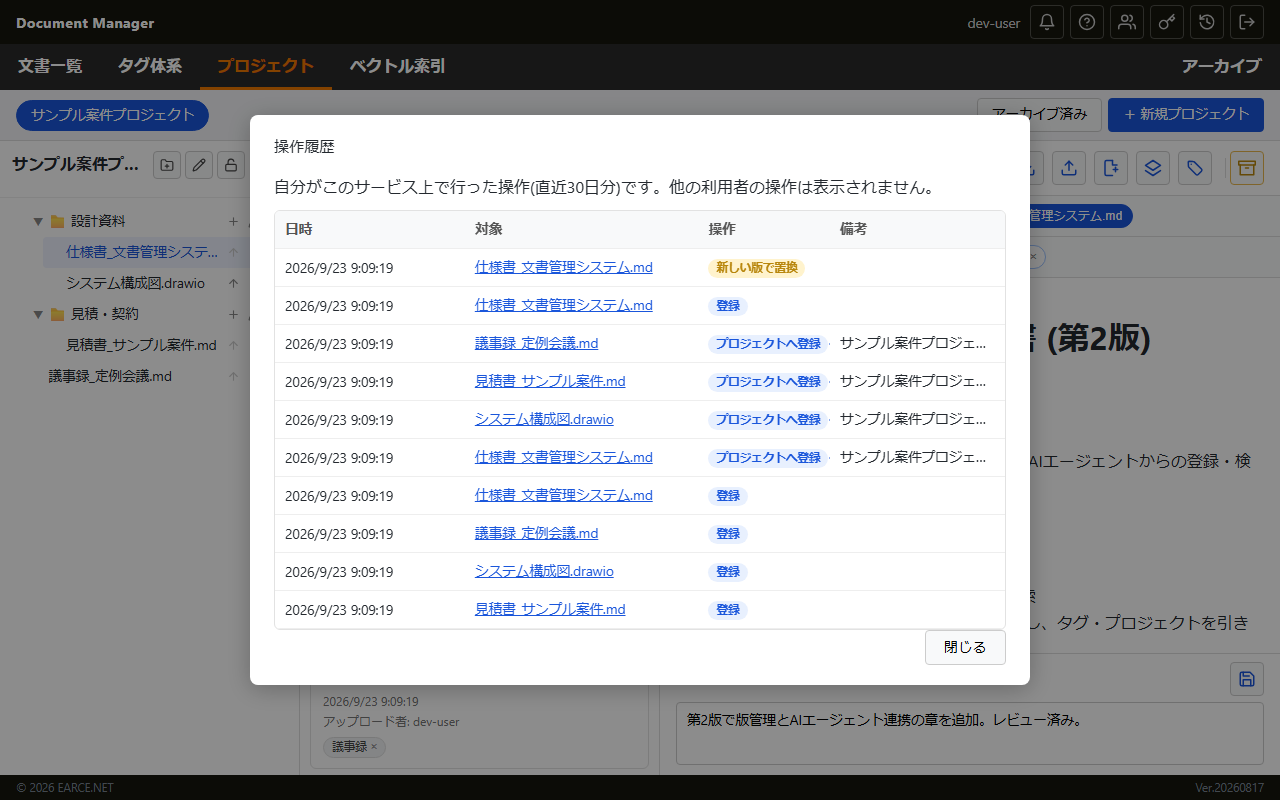
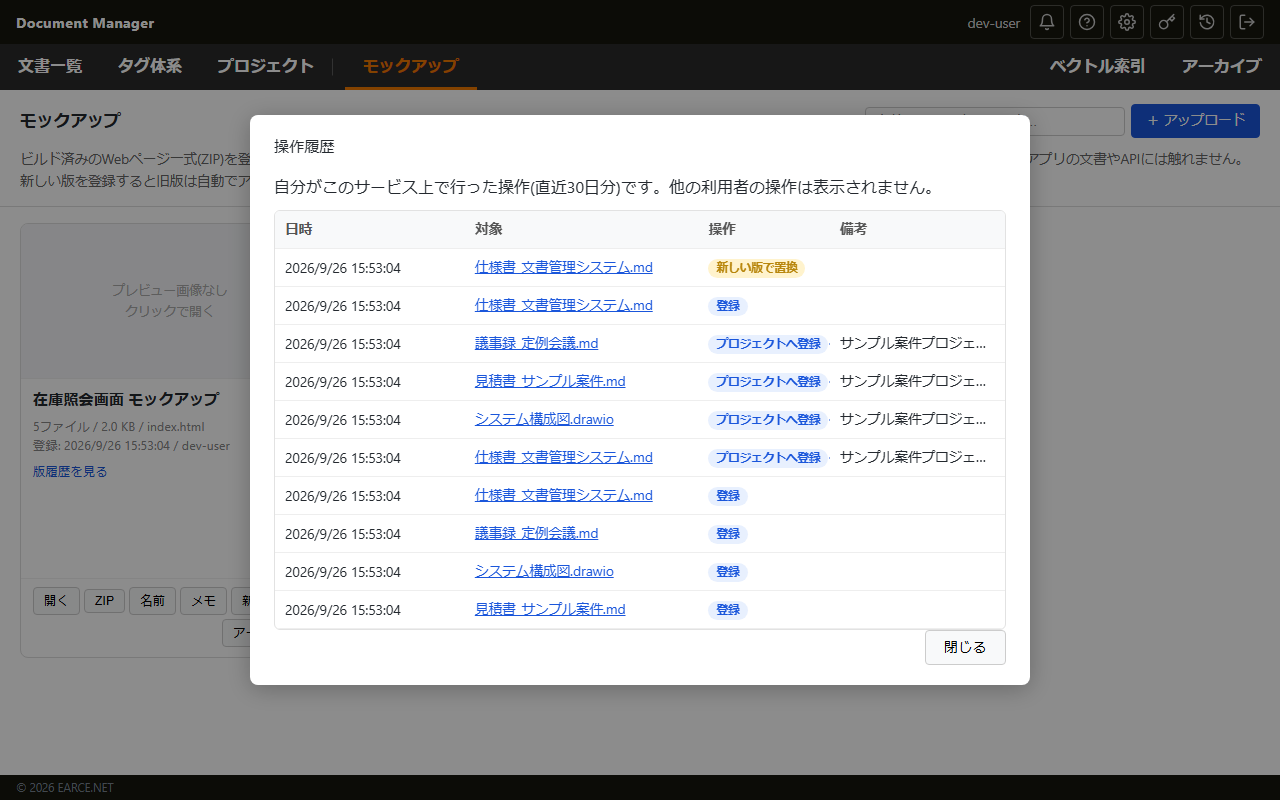
READMEとDocker Hubの説明にモックアップとお品書きを入れた
機能を足したのに入口の説明に無い状態だったので埋めた。撮影スクリプトにも
モックアップとお品書きの画面を足し、README用の絵は npm run screenshots で
作り直せる状態を保っている(サンプルの案件と受注管理のモックアップを種まきする)。

あわせて古くなっていた記述を直した。ディレクトリ構成のスキーマ版がv14のままで、
モックアップの置き場(data/mockups/)とdocs配下の2つの定義も載っていなかった。
構成図の /data の説明も「文書ファイル + SQLite」だけだったので直し、PNGを
作り直した。

diff --git a/docs/screenshots/capture.js b/docs/screenshots/capture.js
@@ -48,6 +48,59 @@ const upload = async (name, content, {previousId, preview} = {}) => {
 
 const setTags = (id, tags) => api("PUT", `api/documents/${encodeURIComponent(id)}/tags`, {tags});
 
+// モックアップは「ビルド済みのページ一式のZIP」を受け取る。撮影用にその場で組み立てる
+// (依存を増やさないよう、zlibだけでZIPの最小構成を作る)
+const zlib = require("node:zlib");
+const buildZip = (entries) => {
+	const locals = [];
+	const centrals = [];
+	let offset = 0;
+	for (const {name, data} of entries) {
+		const nameBuf = Buffer.from(name, "utf-8");
+		const body = Buffer.from(data, "utf-8");
+		const payload = zlib.deflateRawSync(body, {level: 9});
+		const local = Buffer.alloc(30);
+		local.writeUInt32LE(0x04034b50, 0);
+		local.writeUInt16LE(20, 4);
+		local.writeUInt16LE(8, 8);
+		local.writeUInt32LE(payload.length, 18);
+		local.writeUInt32LE(body.length, 22);
+		local.writeUInt16LE(nameBuf.length, 26);
+		locals.push(local, nameBuf, payload);
+		const central = Buffer.alloc(46);
+		central.writeUInt32LE(0x02014b50, 0);
+		central.writeUInt16LE(20, 4);
+		central.writeUInt16LE(20, 6);
+		central.writeUInt16LE(8, 10);
+		central.writeUInt32LE(payload.length, 20);
+		central.writeUInt32LE(body.length, 24);
+		central.writeUInt16LE(nameBuf.length, 28);
+		central.writeUInt32LE(offset, 42);
+		centrals.push(central, nameBuf);
+		offset += local.length + nameBuf.length + payload.length;
+	}
+	const localPart = Buffer.concat(locals);
+	const centralPart = Buffer.concat(centrals);
+	const end = Buffer.alloc(22);
+	end.writeUInt32LE(0x06054b50, 0);
+	end.writeUInt16LE(entries.length, 8);
+	end.writeUInt16LE(entries.length, 10);
+	end.writeUInt32LE(centralPart.length, 12);
+	end.writeUInt32LE(localPart.length, 16);
+	return Buffer.concat([localPart, centralPart, end]);
+};
+
+const uploadMockup = async (name, zip, previewSvg) => {
+	const form = new FormData();
+	form.append("mockupfile", new Blob([zip], {type: "application/zip"}), "site.zip");
+	form.append("name", name);
+	if (previewSvg) form.append("previewfile", new Blob([previewSvg], {type: "image/svg+xml"}), "preview.svg");
+	const res = await fetch(new URL("api/mockups", BASE_URL), {method: "POST", body: form});
+	const text = await res.text();
+	if (!res.ok) throw new Error(`api/mockups ${res.status}: ${text}`);
+	return JSON.parse(text);
+};
+
 const SPEC_V1 = `# 文書管理システム 仕様書
 
 ## 概要
@@ -121,6 +174,57 @@ const DRAWIO_SVG = `<svg xmlns="http://www.w3.org/2000/svg" width="640" height="
 <g stroke="#555" stroke-width="2"><line x1="170" y1="125" x2="245" y2="125"/><line x1="415" y1="115" x2="480" y2="75"/><line x1="415" y1="135" x2="480" y2="180"/></g>
 </svg>`;
 
+const MOCKUP_SITE = [
+	{name: "index.html", data: `<!DOCTYPE html><html lang="ja"><head><meta charset="utf-8">`
+		+ `<title>受注管理 モックアップ</title><link rel="stylesheet" href="./assets/style.css"></head>`
+		+ `<body><header><h1>受注管理</h1><nav><a href="./index.html">一覧</a>`
+		+ `<a href="./pages/detail.html">明細</a></nav></header>`
+		+ `<main><div id="app">読み込み中...</div></main><script src="./app.js"></scr` + `ipt></body></html>`},
+	{name: "app.js", data: `const rows = [\n`
+		+ `\t{id: "SO-1024", customer: "サンプル商事", amount: 482000, status: "手配中"},\n`
+		+ `\t{id: "SO-1025", customer: "テスト工業", amount: 128400, status: "出荷済"},\n`
+		+ `\t{id: "SO-1026", customer: "デモ物産", amount: 996000, status: "見積"}\n`
+		+ `];\n`
+		+ `document.getElementById("app").innerHTML =\n`
+		+ `\t'<table><thead><tr><th>受注番号</th><th>取引先</th><th>金額</th><th>状態</th></tr></thead><tbody>'\n`
+		+ `\t+ rows.map((r) => \`<tr><td>\${r.id}</td><td>\${r.customer}</td>`
+		+ `<td class="num">\${r.amount.toLocaleString()}</td><td><span class="badge">\${r.status}</span></td></tr>\`).join("")\n`
+		+ `\t+ '</tbody></table>';\n`},
+	{name: "assets/style.css", data: `body { font-family: sans-serif; margin: 0; color: #333; }\n`
+		+ `header { background: #2b2b2b; color: #fff; padding: 14px 24px; display: flex; gap: 24px; align-items: center; }\n`
+		+ `header h1 { font-size: 1.1em; margin: 0; }\n`
+		+ `header a { color: #ddd; margin-right: 16px; text-decoration: none; }\n`
+		+ `main { padding: 24px; }\n`
+		+ `table { border-collapse: collapse; width: 100%; max-width: 760px; }\n`
+		+ `th, td { border-bottom: 1px solid #e3e3e3; padding: 10px 12px; text-align: left; font-size: 0.9em; }\n`
+		+ `th { background: #f6f7f9; }\n`
+		+ `td.num { text-align: right; }\n`
+		+ `.badge { background: #eef3fb; color: #1a56db; border-radius: 10px; padding: 2px 10px; font-size: 0.85em; }\n`},
+	{name: "pages/detail.html", data: `<!DOCTYPE html><html lang="ja"><head><meta charset="utf-8">`
+		+ `<title>明細</title><link rel="stylesheet" href="../assets/style.css"></head>`
+		+ `<body><header><h1>受注明細</h1><nav><a href="../index.html">一覧へ戻る</a></nav></header>`
+		+ `<main><p>SO-1024 の明細です。</p></main></body></html>`},
+	{name: "sample.csv", data: "受注番号,取引先,金額\nSO-1024,サンプル商事,482000\n"}
+];
+
+const MOCKUP_PREVIEW = `<svg xmlns="http://www.w3.org/2000/svg" width="640" height="400" viewBox="0 0 640 400" font-family="sans-serif">
+<rect width="640" height="400" fill="#ffffff"/>
+<rect width="640" height="52" fill="#2b2b2b"/>
+<text x="24" y="33" fill="#ffffff" font-size="17" font-weight="700">受注管理</text>
+<text x="140" y="33" fill="#cccccc" font-size="13">一覧    明細</text>
+<rect x="24" y="84" width="592" height="34" fill="#f6f7f9"/>
+<text x="38" y="106" fill="#555" font-size="13">受注番号        取引先                金額          状態</text>
+<g font-size="13" fill="#333">
+<text x="38" y="150">SO-1024      サンプル商事      482,000</text>
+<text x="38" y="192">SO-1025      テスト工業        128,400</text>
+<text x="38" y="234">SO-1026      デモ物産          996,000</text>
+</g>
+<g><rect x="470" y="136" rx="10" width="72" height="20" fill="#eef3fb"/><text x="484" y="151" fill="#1a56db" font-size="12">手配中</text>
+<rect x="470" y="178" rx="10" width="72" height="20" fill="#eef3fb"/><text x="484" y="193" fill="#1a56db" font-size="12">出荷済</text>
+<rect x="470" y="220" rx="10" width="72" height="20" fill="#eef3fb"/><text x="490" y="235" fill="#1a56db" font-size="12">見積</text></g>
+<line x1="24" y1="160" x2="616" y2="160" stroke="#e3e3e3"/><line x1="24" y1="202" x2="616" y2="202" stroke="#e3e3e3"/>
+<line x1="24" y1="244" x2="616" y2="244" stroke="#e3e3e3"/></svg>`;
+
 const seed = async () => {
 	const customers = await upload("顧客リスト.csv", CUSTOMERS);
 	await setTags(customers.id, ["顧客管理"]);
@@ -149,6 +253,20 @@ const seed = async () => {
 	// 関連文書(種類・方向を持たない紐付け): 仕様書と、その内容を決めた議事録・構成図
 	await api("PUT", `api/documents/${specV2.id}/links/${minutes.id}`);
 	await api("PUT", `api/documents/${specV2.id}/links/${drawio.id}`);
+
+	// お品書き(プロジェクトの資料一覧に付ける説明書き)
+	const note = (documentId, text) => api("PUT", `api/projects/${project.id}/documents/${documentId}/note`, {note: text});
+	await api("PUT", `api/projects/${project.id}/folders/${designFolder.id}/note`, {note: "実装に入る前のレビュー対象。ここが確定したら着手します。"});
+	await api("PUT", `api/projects/${project.id}/folders/${salesFolder.id}/note`, {note: "先方へ提出済みのもの。金額の変更はここに追記します。"});
+	await note(specV2.id, "第2版が最新。版管理とAIエージェント連携の章が今回の追加分です。");
+	await note(drawio.id, "構成の全体像。変換サービスと意味検索は任意なので、無い構成もあります。");
+	await note(estimate.id, "初回提示分。値引き後の金額で出しています。");
+	await note(minutes.id, "この会議で仕様書の第2版の方針を決めました。");
+
+	// モックアップ(文書とは別のコレクション。ビルド済みのページ一式)
+	const mockup = await uploadMockup("受注管理画面 モックアップ", buildZip(MOCKUP_SITE), MOCKUP_PREVIEW);
+	await api("PUT", `api/mockups/${mockup.id}/memo`, {memo: "一覧の絞り込みと、状態バッジの色を見てほしい版。明細ページはまだ仮です。"});
+	await uploadMockup("在庫照会画面 モックアップ", buildZip(MOCKUP_SITE));
 
 	await api("PUT", "api/tag_order", {tags: ["仕様書", "設計", "見積書", "議事録", "顧客管理"]});
 	return {specV2, project};
@@ -209,13 +327,27 @@ const main = async () => {
 		await page.frameLocator("#previewFrame").locator("h1").waitFor();
 		await shot("projects");
 
-		// 4. 操作履歴
+		// 4. お品書き(プロジェクト名を押すと、資料一覧と説明書きがプレビュー領域に出る)
+		await page.locator("#projectTreeTitle").click();
+		await page.locator(".manifestItem").first().waitFor();
+		await shot("project-manifest");
+
+		// 5. モックアップ(文書とは別のコレクション)
+		await page.locator("#menuMockupsLink").click();
+		await page.locator(".mockupCard").first().waitFor();
+		// 版履歴は、プレビュー画像のあるカード側で開く(READMEでは見栄えのする方を写す)
+		const mockupCard = page.locator(".mockupCard", {hasText: "受注管理画面"});
+		await mockupCard.locator(".mockupVersionsToggle").click();
+		await mockupCard.locator(".mockupVersionList").waitFor();
+		await shot("mockups");
+
+		// 6. 操作履歴
 		await page.locator("#historyManageLink").click();
 		await page.locator("#historyList tr").first().waitFor();
 		await shot("history");
 		await page.locator("#historyCloseButton").click();
 
-		// 5. APIキー管理と AIエージェント用 Skill
+		// 7. APIキー管理と AIエージェント用 Skill
 		await page.locator("#menuDocumentsLink").click();
 		await page.locator("#apiKeyManageLink").click();
 		await page.selectOption("#apiKeyRoleInput", "readwrite");
